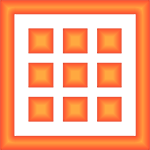
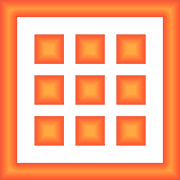
Larger menu buttons, changed trails (probably worse)

diff --git a/Elude/src/tungus/games/elude/menu/ingame/AbstractIngameMenu.java b/Elude/src/tungus/games/elude/menu/ingame/AbstractIngameMenu.java
@@ -21,7 +21,7 @@ public abstract class AbstractIngameMenu {
 	private static final float APPEAR_TIME = 0.5f;
 	private static final float DISAPPEAR_TIME = 0.5f;
 	
-	private static final Vector2 APPEAR_ORIGIN = new Vector2(400f, 360f);
+	private static final Vector2 APPEAR_ORIGIN = new Vector2(400f, 400f);
 	private static final Interpolation SIZE = Interpolation.fade;
 	private static final Interpolation POSITION = Interpolation.fade;
 	private static final Interpolation OPACITY = Interpolation.fade;

diff --git a/Elude/src/tungus/games/elude/menu/ingame/PauseMenu.java b/Elude/src/tungus/games/elude/menu/ingame/PauseMenu.java
@@ -8,9 +8,9 @@ import com.badlogic.gdx.math.Rectangle;
 
 public class PauseMenu extends AbstractIngameMenu {
 	
-	private static final float BUTTON_Y = 140;
-	private static final float BUTTON_SIZE = 100;
+	private static final float BUTTON_SIZE = 150;
 	private static final float BUTTON_SPACING = 60;
+	private static final float BUTTON_Y = 240-BUTTON_SIZE/2;
 	
 	public PauseMenu() {
 		super(new Sprite[]{new Sprite(Assets.toMenu), new Sprite(Assets.restart), new Sprite(Assets.resume)},

diff --git a/Elude/src/tungus/games/elude/menu/ingame/GameOverMenu.java b/Elude/src/tungus/games/elude/menu/ingame/GameOverMenu.java
@@ -8,9 +8,9 @@ import com.badlogic.gdx.math.Rectangle;
 
 public class GameOverMenu extends AbstractIngameMenu {
 
-	private static final float BUTTON_Y = 140;
-	private static final float BUTTON_SIZE = 100;
+	private static final float BUTTON_SIZE = 150;
 	private static final float BUTTON_SPACING = 60;
+	private static final float BUTTON_Y = 240-BUTTON_SIZE;
 	
 	public GameOverMenu() {
 		super(new Sprite[]{new Sprite(Assets.toMenu), new Sprite(Assets.restart)},
